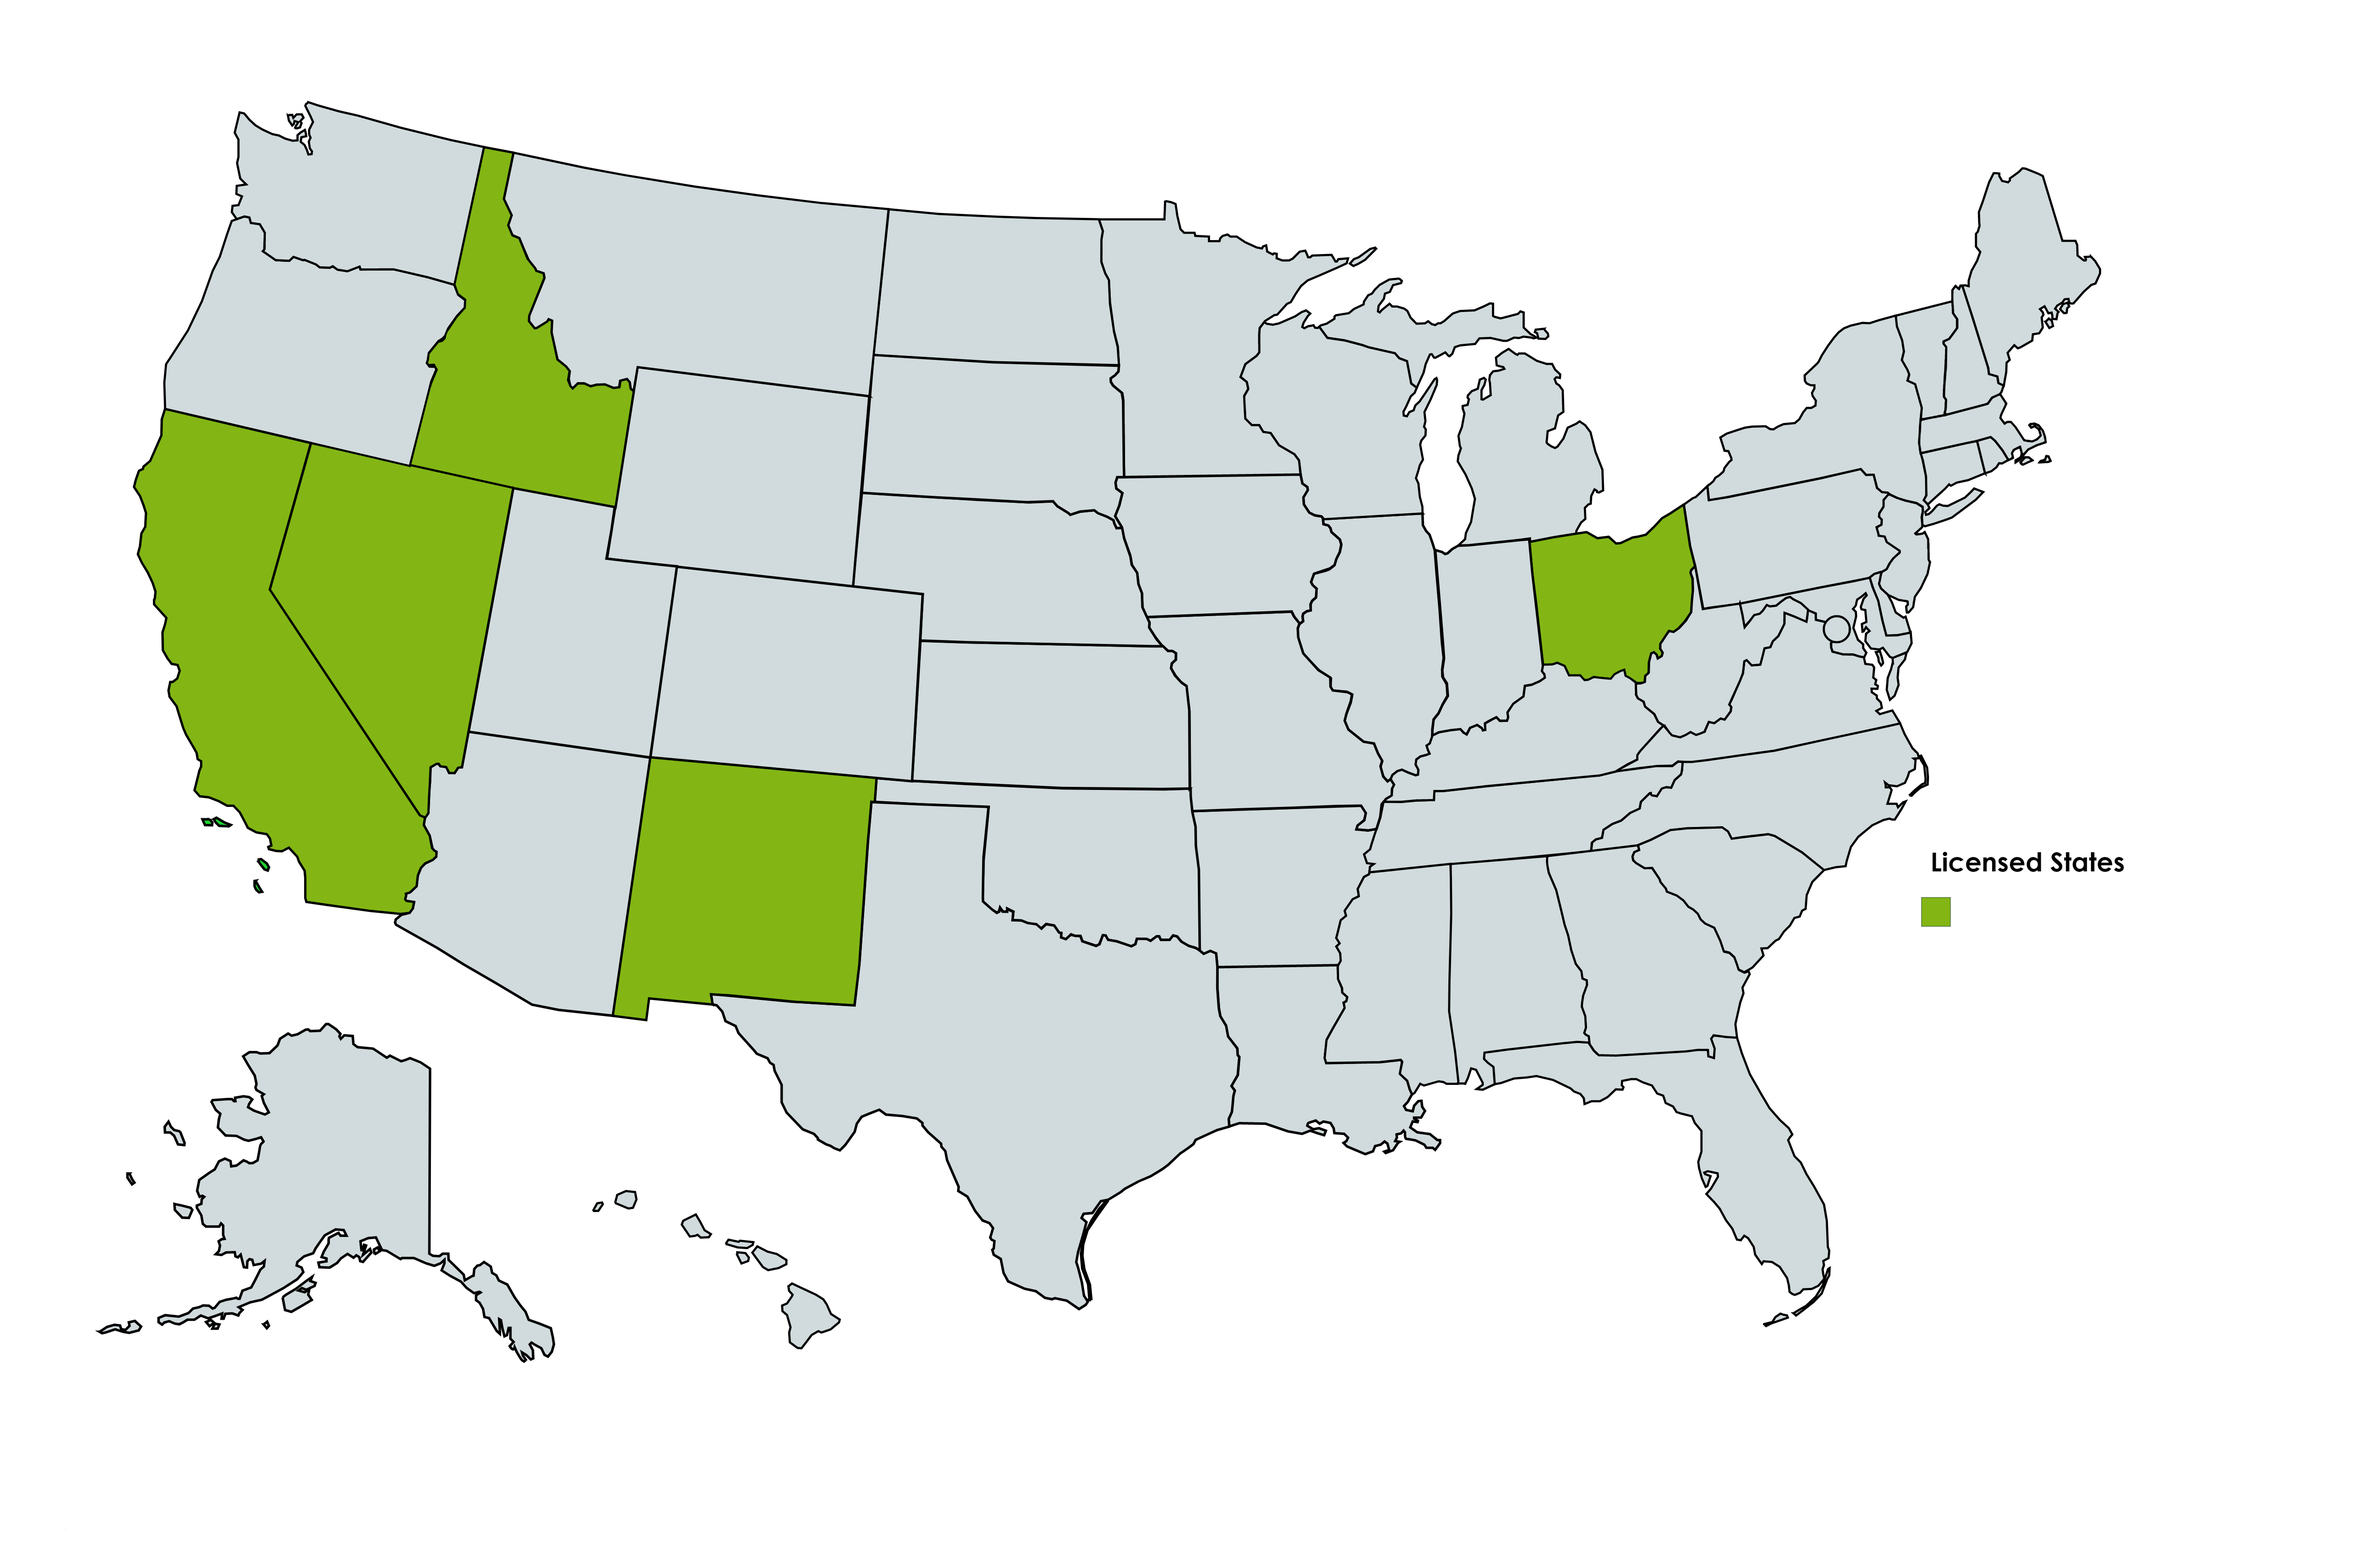
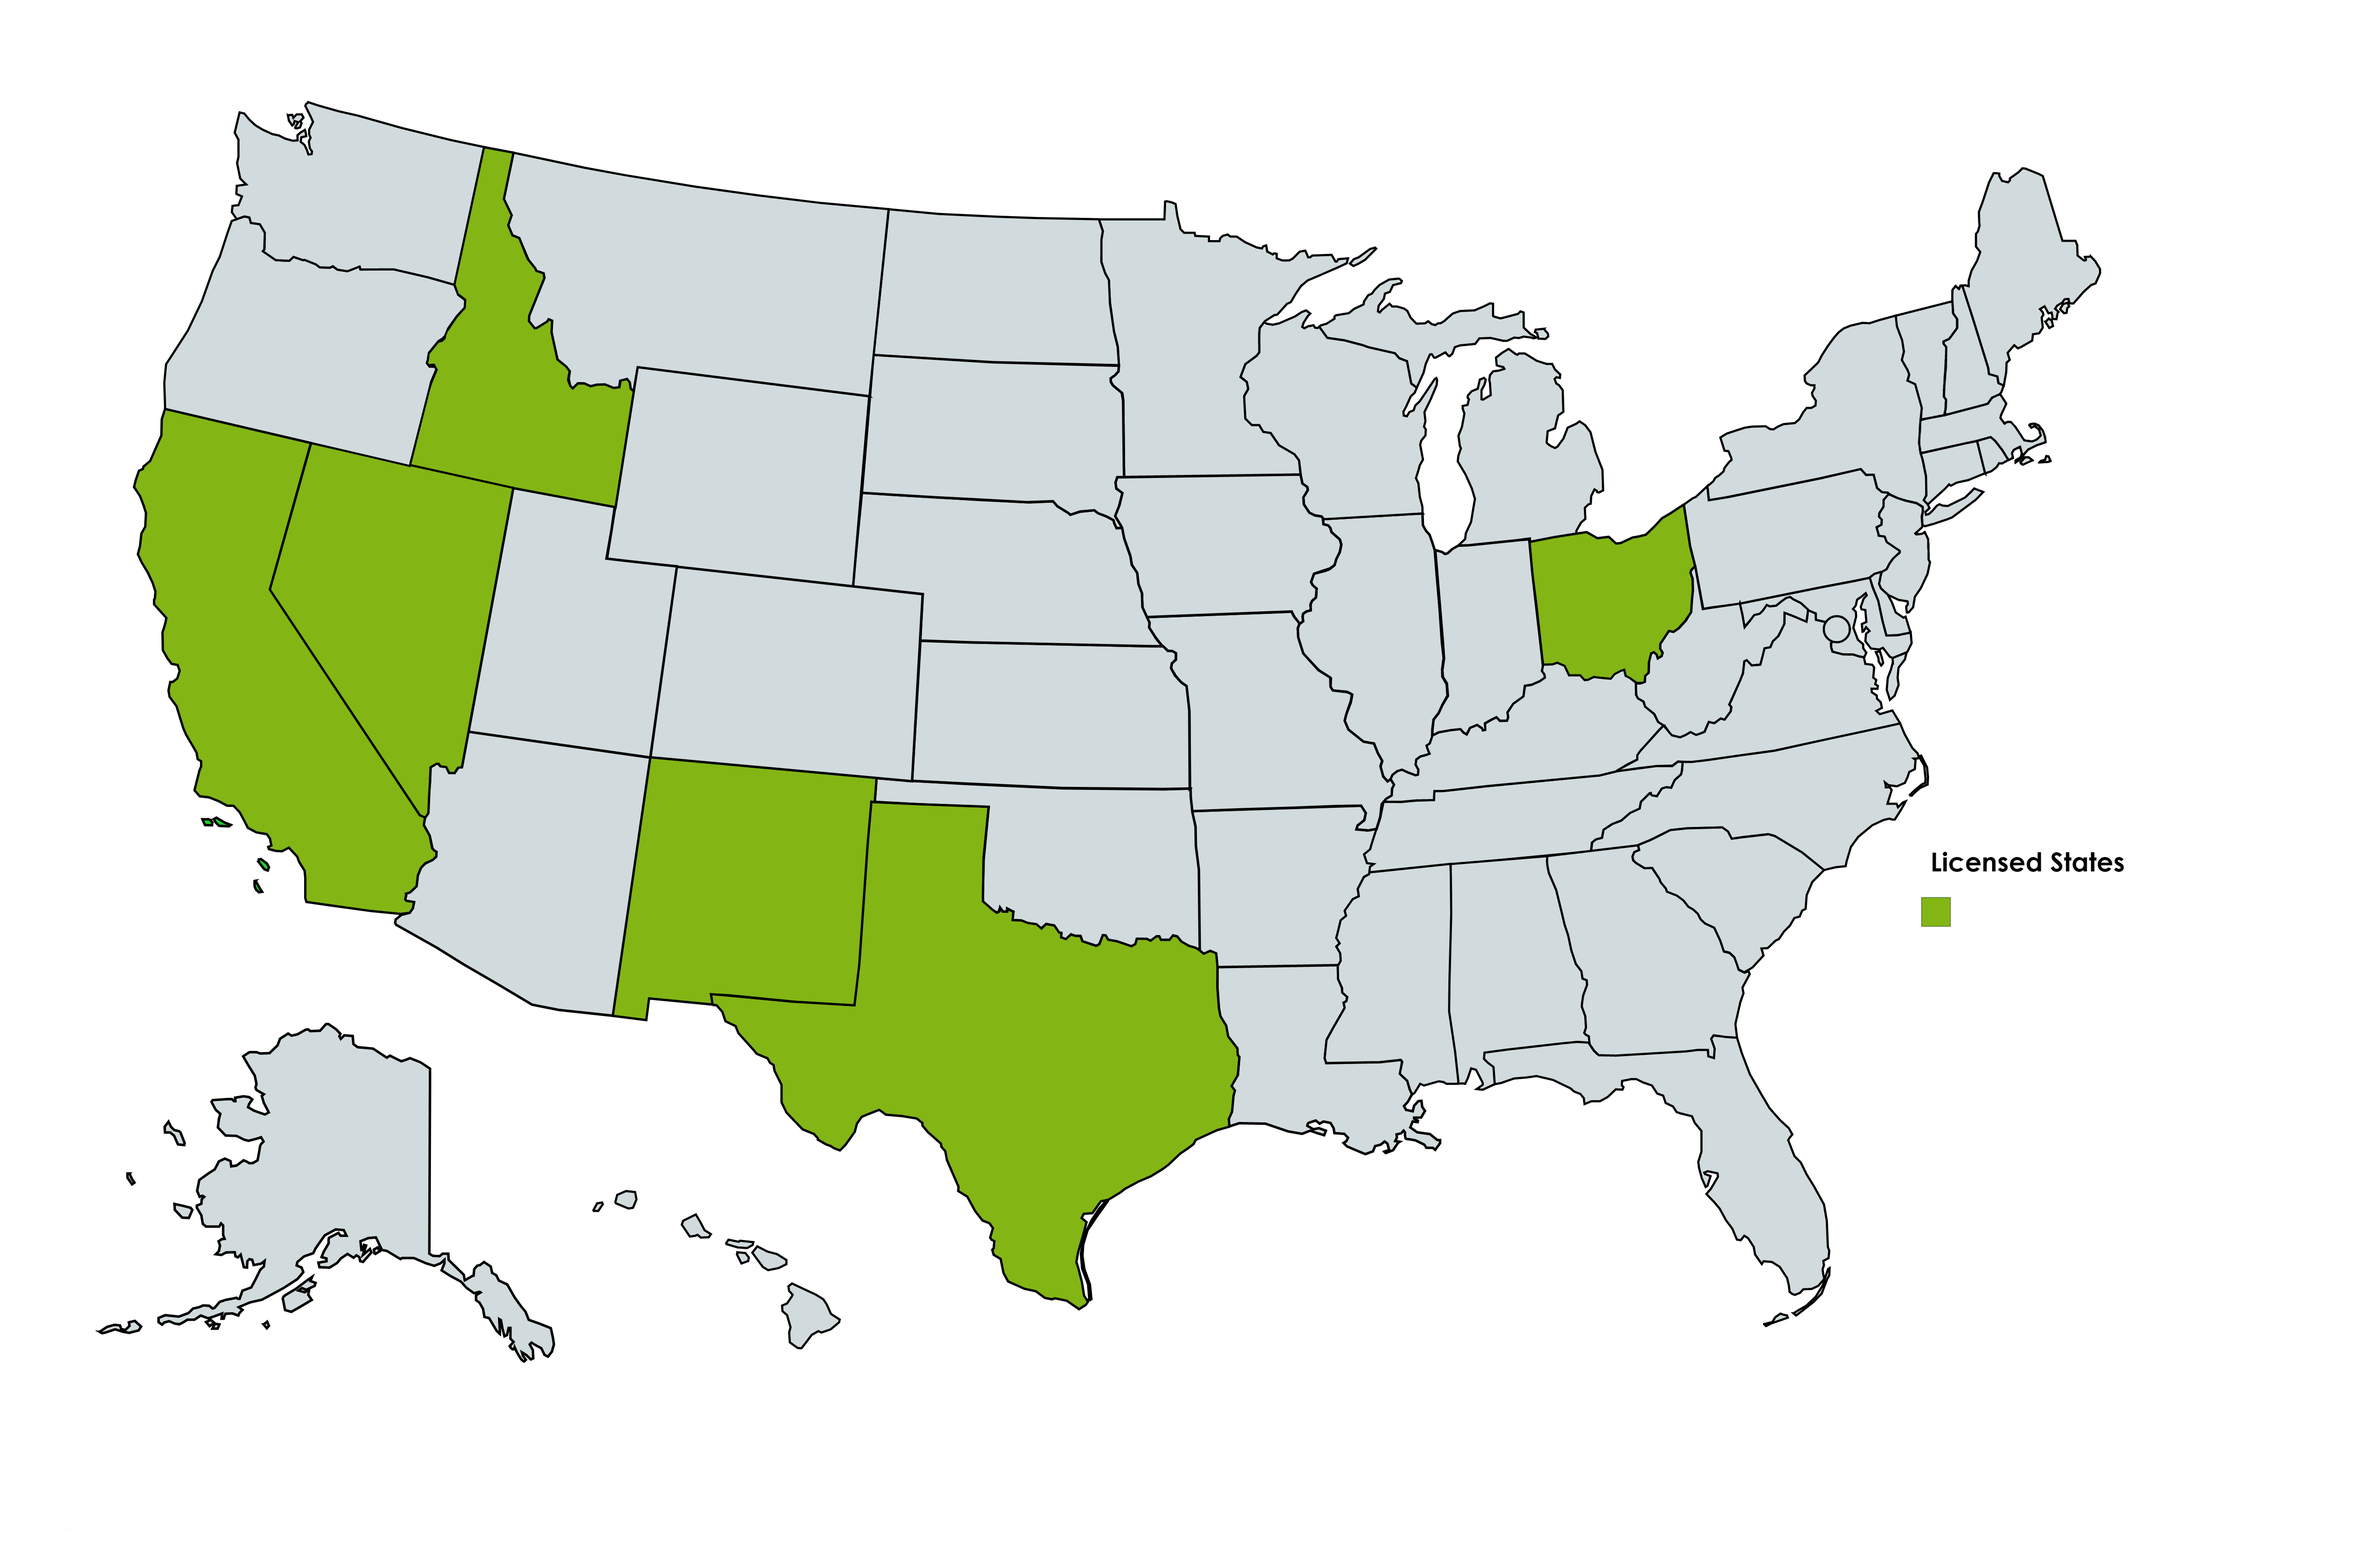
Added texas to licensing and some other subtle context changes

Changed region(s): [[0.3111, 0.4999, 0.5289, 0.8435]]

diff --git a/company-info.html b/company-info.html
@@ -159,10 +159,10 @@
                         <div class="col-md-7">
                             <div class="sec-title">
                                 <h4>Welcome To New Heights Lending</h4>
-                                <h3>Bringing the expectations of lending to new heights</h3>
+                                <h3>Bringing the expectations of lending to new heights!</h3>
                             </div>
-                            <p class="about-desc">New Heights Lending LLC is a Nevada owned and operated mortgage broker. With over 30 years of experience in the mortgage lending industry, New Heights Lending has the expertise needed to guide our borrowers with their residential financing needs. The company is currently licensed in California, Idaho, Nevada, New Mexico and Ohio.</p>
-                            <p class="about-desc">New Heights Lending LLC is an equal opportunity lender. Company NMLS for NV is 1160570 and Company NMLS for OH is 1676109. New Heights Lending LLC is a member of the Las Vegas Metro Chamber of Commerce, the Better Business Bureau (the BBB), the National Federation of Independent Businesses (NFIB) and the Greater Las Vegas Association of Realtors (GLVAR).</p>
+                            <p class="about-desc">New Heights Lending LLC is a Nevada owned and operated mortgage broker. With over 30 years of experience in the mortgage lending industry, New Heights Lending has the expertise needed to guide our borrowers with their residential financing needs. The company is currently licensed in California, Idaho, Nevada, New Mexico, Ohio, and Texas.</p>
+                            <p class="about-desc">New Heights Lending LLC is an equal opportunity lender. Company NMLS for NV is 1160570, Company NMLS for OH is 1676109 and Company NMLS for TX is 1925458. New Heights Lending LLC is a member of the Las Vegas Metro Chamber of Commerce, the Better Business Bureau (the BBB), the National Federation of Independent Businesses (NFIB) and the Greater Las Vegas Association of Realtors (GLVAR).</p>
                             <p class="about-desc">Established in 2014, New Height's core team has worked together since 2005. The Company's focus is to embrace efficient workflow coupled with compliance minded, knowledgeable sales personnel to promote sustainable home ownership. As important as it is in helping our clients get into their homes or refinancing an existing loan, it is equally important to us that they have a full understanding of the process and feeling confident in their choices.</p>
                             <p class="about-desc">New Heights Lending is bringing the expectations of lending to new heights… and you can rest assured that our motto is not just a tagline, it’s a promise!</p>
                         </div>

diff --git a/contact.html b/contact.html
@@ -203,7 +203,8 @@
                                         </div>
                                         <div class="address-text">
                                             702-998-2367 – Las Vegas Office <br>
-                                            330-563-4592 – Ohio Office
+                                            330-563-4592 – Ohio Office <br>
+                                            830-331-2410 - Texas Office <br>
                                         </div>
                                     </div>
                                     <div class="address-item">
@@ -221,9 +222,8 @@
                                         </div>
                                         <div class="address-text">
                                             6655 W. Sahara Ave Suite A108 Las Vegas, NV 89146<br>
-                                            <br>
-
-                                            3700 Massillon Road Suite 115 Uniontown, OH 44685
+                                            3700 Massillon Road Suite 115 Uniontown, OH 44685<br>
+                                            1415 E. Blanco Road #7-96 Boerne, TX 78006
                                         </div>
                                     </div>
                                     <div class="address-item">

diff --git a/licensing.html b/licensing.html
@@ -171,7 +171,8 @@
                                             ID Mortgage Broker/Lender License MBL-8306<br>
                                             NV Mortgage Broker License 4097<br>
                                             NM Mortgage Loan Company License 1160570<br>
-                                            OH Mortgage Broker Act of Certificate of Registration MB.804293.000
+                                            OH Mortgage Broker Act of Certificate of Registration MB.804293.000<br>
+                                            TX Mortgage Company License 1925458<br>
                                         </p>
                                     </div>                   
                                 </div>

diff --git a/index.html b/index.html
@@ -265,6 +265,7 @@
                                     <li>NV Mortgage Broker License 4097</li>
                                     <li>NM Mortgage Loan Company License 1160570</li>
                                     <li>OH Mortgage Broker Act of Certificate of Registration MB.804293.000</li>
+                                    <li>TX Mortgage Company License 1925458</li>
                                 </ul>
                             </div>
                             <!-- 3st col -->
